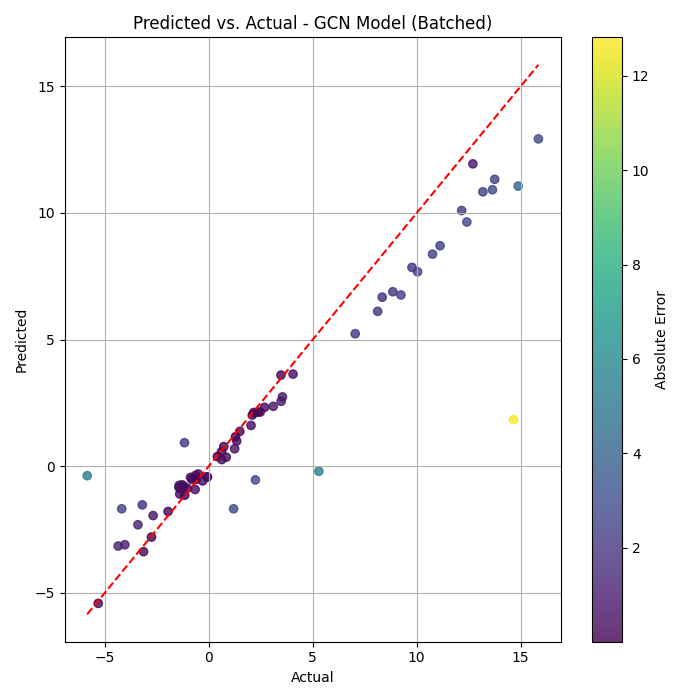
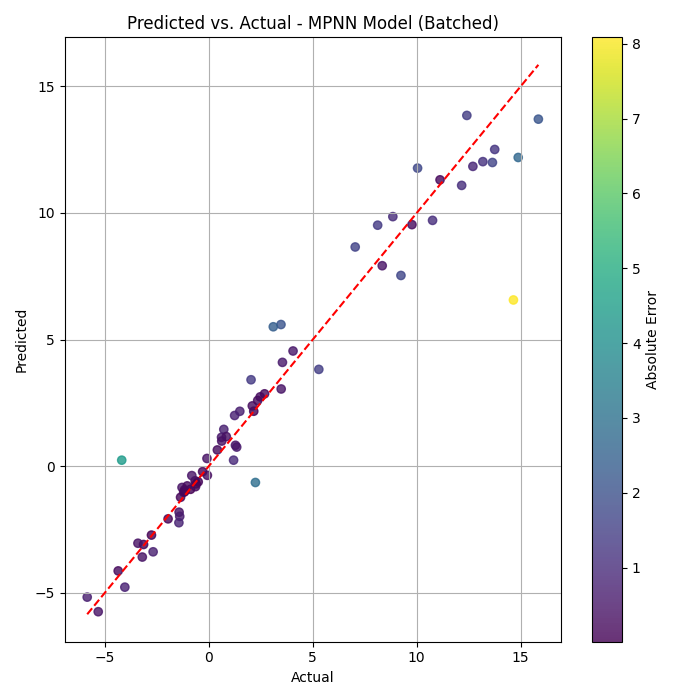
feat: add pdb export for drawing in pymol

diff --git a/draw_molecules.py b/draw_molecules.py
@@ -4,19 +4,22 @@ from rdkit.Chem.Draw import rdMolDraw2D
 import networkx as nx
 import pandas as pd
 import matplotlib.pyplot as plt
+from mpl_toolkits.mplot3d import Axes3D
+import matplotlib.patheffects as patheffects
 
 csv_path = "input.csv"
 
 
 class MoleculeDrawing:
-    def __init__(self, smiles: str, inhib_pow: float):
+    def __init__(self, smiles: str, inhib_pow: float, name: str):
         self.smiles = smiles
         self.power = inhib_pow
+        self.name = name
         self.constructor = MoleculeRepresentation(smiles, inhib_pow)
 
     
-    def create_graph(self, name: str = "molecule.svg") -> nx.Graph:
-        mol = self.constructor.molecule
+    def create_2d_graph(self, name: str = "molecule.svg") -> None:
+        mol = Chem.AddHs(self.constructor.molecule)
         G = nx.Graph()
 
         for atom in mol.GetAtoms():
@@ -32,14 +35,107 @@ class MoleculeDrawing:
         labels = nx.get_node_attributes(G, "label")
 
         plt.figure(figsize=(6, 6))
+        plt.title(f"2D Plot of {self.name}")
         nx.draw(G, pos, with_labels=True, labels=labels, node_size=800, font_size=12)
         plt.savefig(name)
 
+    def create_3d_graph(self, name: str = "molecule_3d.png") -> None:
+        conf = self.constructor.find_best_conformer()
+        mol = self.constructor.molecule_3d
+
+        G = nx.Graph()
+        for atom in mol.GetAtoms():
+            idx = atom.GetIdx()
+            pos = conf.GetAtomPosition(idx)
+            G.add_node(idx,
+                       element=atom.GetSymbol(),
+                       coord=(pos.x, pos.y, pos.z))
+            
+        for bond in mol.GetBonds():
+            G.add_edge(bond.GetBeginAtomIdx(), bond.GetEndAtomIdx(),
+                       order=bond.GetBondTypeAsDouble())
+            
+        atom_colors = {
+            "H": "white",
+            "C": "black",
+            "N": "blue",
+            "O": "red",
+            "F": "green",
+            "P": "orange",
+            "S": "yellow",
+            "Cl": "green",
+            "Br": "brown",
+            "I": "purple",
+        }
+
+        fig =plt.figure(figsize=(6,6))
+        fig.suptitle(f"3D Conformer of {self.name}")
+        ax = fig.add_subplot(111, projection="3d")
+
+        for n, data in G.nodes(data=True):
+            x, y, z = data["coord"]
+            elem = data["element"]
+            ax.scatter(x, y, z,
+                    color=atom_colors.get(elem, "gray"),
+                    s=200,
+                    edgecolors="k",
+                    depthshade=True
+            )
+            ax.text(x, y, z, elem,
+                    fontsize=10,
+                    ha="center", 
+                    va="center",
+                    color="white",
+                    path_effects=[patheffects.withStroke(linewidth=1, foreground="black")]
+                )
+            
+        for u, v in G.edges():
+            x1, y1, z1 = G.nodes[u]["coord"]
+            x2, y2, z2 = G.nodes[v]["coord"]
+            ax.plot([x1, x2], [y1, y2], [z1, z2], color="gray", linewidth=3)
+
+        set_axes_equal(ax)
+        ax.view_init(elev=20, azim=30)
+        plt.tight_layout()
+        plt.savefig(name, dpi=300)
+        plt.close(fig)
+
+    def create_pdb_file(self, name) -> None:
+        self.constructor.find_best_conformer()
+        pdb_block = Chem.MolToPDBBlock(self.constructor.molecule_3d)
+        with open(name, "w") as f:
+            f.write(pdb_block)
+
+
+
+def set_axes_equal(ax):
+    x_limits = ax.get_xlim3d()
+    y_limits = ax.get_ylim3d()
+    z_limits = ax.get_zlim3d()
+
+    x_range = abs(x_limits[1] - x_limits[0])
+    y_range = abs(y_limits[1] - y_limits[0])
+    z_range = abs(z_limits[1] - z_limits[0])
+
+    max_range = max([x_range, y_range, z_range])
+
+    x_middle = sum(x_limits) / 2
+    y_middle = sum(y_limits) / 2
+    z_middle = sum(z_limits) / 2
+
+    ax.set_xlim3d([x_middle - max_range/2, x_middle + max_range/2])
+    ax.set_ylim3d([y_middle - max_range/2, y_middle + max_range/2])
+    ax.set_zlim3d([z_middle - max_range/2, z_middle + max_range/2])
+
 df = pd.read_csv(csv_path)
 df = df.sort_values("Inh Power", ascending=False)
-for i in range(0, 10):
-    
-    drawer = MoleculeDrawing(df.iloc[-i]["SMILES"], df.iloc[-i]["Inh Power"])
-    drawer.create_graph(f"molecule_{10-i}.svg")
+
+for index, j in enumerate([df.iloc[2], df.iloc[3]]):
+
+    drawer = MoleculeDrawing(j["SMILES"], j["Inh Power"], j["Inhibitor Name"])
+    drawer.create_pdb_file(f"3d_molecule{index}.pdb")
+
+
+
 
 

diff --git a/model_analysis.py b/model_analysis.py
@@ -13,7 +13,7 @@ from sklearn.metrics import r2_score, mean_squared_error, mean_absolute_error # 
 from scipy.stats import pearsonr, spearmanr # type: ignore
 
 
-def plot_predictions(dataloader: DataLoader, model: nn.Module):
+def plot_predictions(dataloader: DataLoader, model: nn.Module, model_type: str):
     """
     Function to plot predictions vs actual values.
     """
@@ -68,7 +68,7 @@ def plot_predictions(dataloader: DataLoader, model: nn.Module):
              [all_targets.min(), all_targets.max()], 'r--')
     plt.xlabel("Actual")
     plt.ylabel("Predicted")
-    plt.title("Predicted vs. Actual - GCN Model (Batched)")
+    plt.title(f"Predicted vs. Actual - {model_type} Model (Batched)")
     plt.grid(True)
     plt.tight_layout()
     plt.show()

diff --git a/main.py b/main.py
@@ -40,12 +40,10 @@ def set_seed(seed: int) -> None:
 set_seed(seed_)
 
 
-train_loader = DataLoader(graph_list, batch_size=32, shuffle=True)
+train_loader = DataLoader(graph_list, batch_size=16, shuffle=True)
 
 gcn_model = GCNModel(in_channels=num_node_features, hidden_dim=64, out_dim=1)
 mpnn_model = MPNNModel(in_channels=num_node_features, edge_dim=num_edge_features, hidden_dim=64, num_layers=3, out_dim=1)
 
-print(mpnn_model)
-
 train_gcn_model_batched(train_loader, mpnn_model, lr=1e-3, epochs=300)
-plot_predictions(train_loader, mpnn_model)
+plot_predictions(train_loader, mpnn_model, "MPNN")

diff --git a/proc/smiles_to_graph.py b/proc/smiles_to_graph.py
@@ -149,7 +149,10 @@ class MoleculeRepresentation:
 
         energies.sort(key=lambda x: x[1])
         best_conf = energies[0][0]
-        return self.molecule_3d.GetConformer(best_conf)
+        conf = Conformer(self.molecule_3d.GetConformer(best_conf))
+        self.molecule_3d.RemoveAllConformers()
+        self.molecule_3d.AddConformer(conf, assignId=True)
+        return conf
 
     def mol_to_graph(self) -> Optional[Data]:
         """Creates a graph with the necessary embeddings from a given SMILES string.
